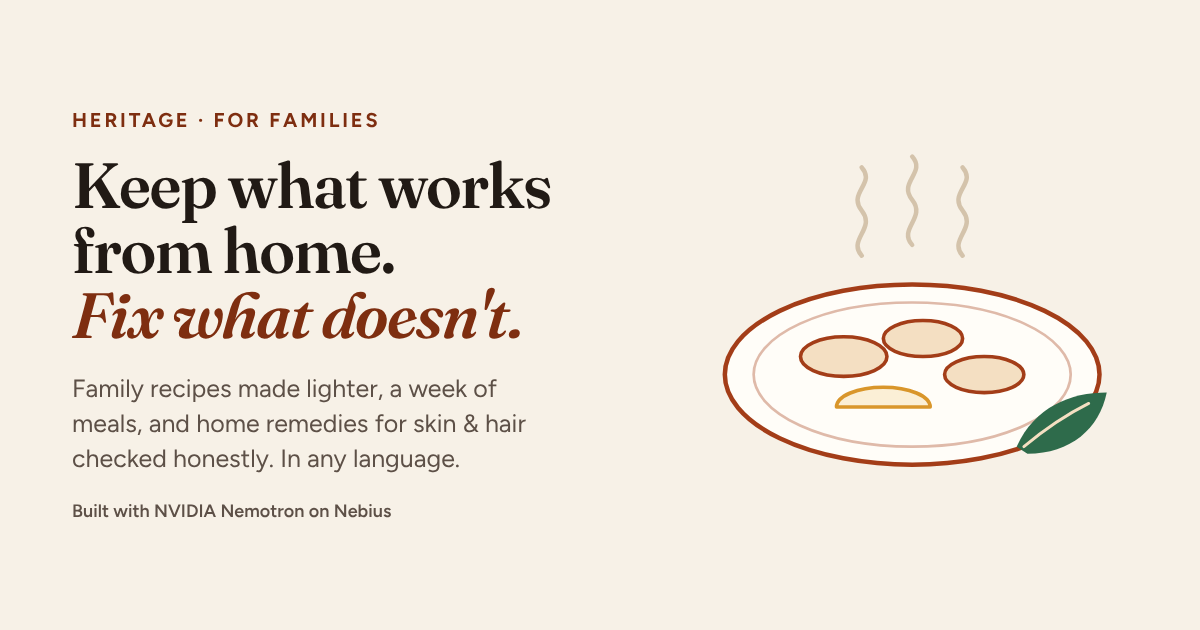
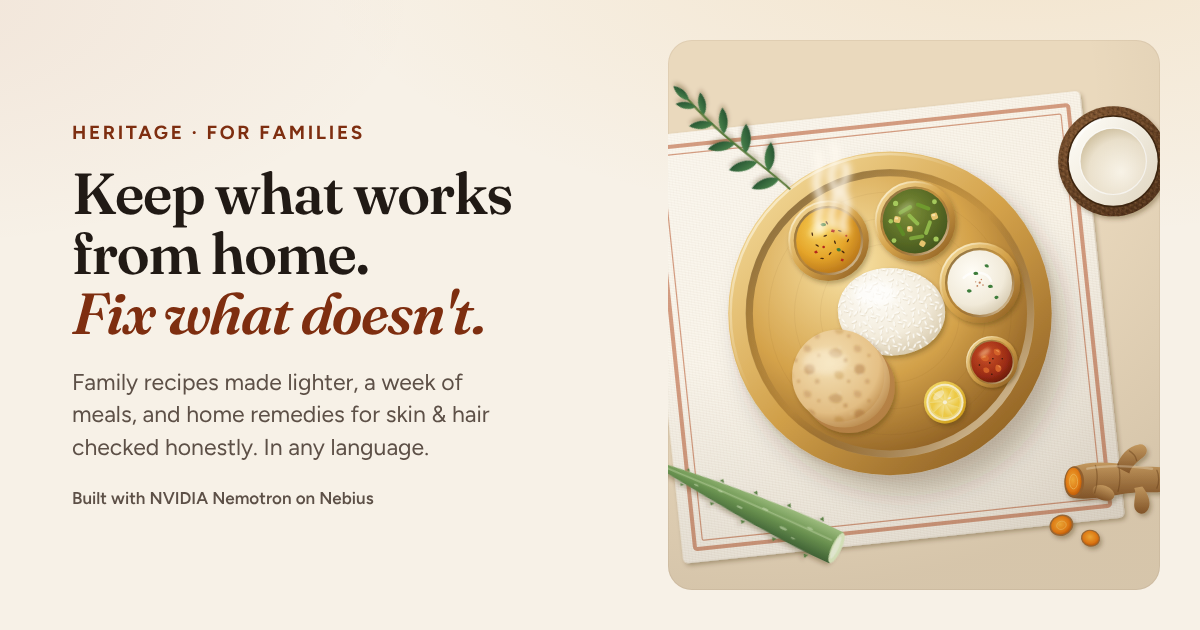
Always open on home; editorial family-table illustration
- Every visit starts on the home screen; #plate, #care, shortcuts and
  Back still go straight to their screen
- New flat-editorial illustration: brass thali with dal, sabzi, raita,
  pickle, rice, rotis, lemon and curry leaves, plus turmeric, coconut and
  aloe for home remedies; light and dark palettes, gentle steam
- Large on the right on desktop, banner on phones; crop reused in the
  empty family card; link-preview image re-rendered

Claude-Session: https://claude.ai/code/session_014jQBxq1ocyTSAuts19U2YA

diff --git a/static/index.html b/static/index.html
@@ -28,17 +28,11 @@
       var h = location.hash.replace(/^#/, ""), s = "home";
       if (h === "plate") s = "plate";
       else if (h === "care" || h === "care-plan" || h === "care-label") s = "care";
-      else if (h !== "home") {
-        try {
-          var f = JSON.parse(localStorage.getItem("hp-family-v2") || "null");
-          if (f && (f.mode === "plate" || f.mode === "care")) s = f.mode;
-          else if (!f && localStorage.getItem("hp-cookbook-v1")) s = "plate";
-        } catch (e) { /* storage blocked: home */ }
-      }
+      // Anything else (no link, an old or unknown link): every visit starts on home.
       document.documentElement.setAttribute("data-side", s);
     })();
   </script>
-  <link rel="stylesheet" href="/static/styles.css?v=20261029b">
+  <link rel="stylesheet" href="/static/styles.css?v=20261030">
 </head>
 <body>
   <a class="skip" href="#main">Skip to the app</a>
@@ -74,24 +68,10 @@
       <section class="hero home-hero" aria-labelledby="homeTitle">
         <div class="wrap">
           <div class="home-grid">
+            <!-- ht-art: the editorial hero, a family table from above (styles: "hero illustration" in styles.css) -->
+            <figure class="hero-art" aria-hidden="true"><svg class="ht-art" viewBox="0 0 720 680" preserveAspectRatio="xMidYMid slice" focusable="false"><defs><linearGradient id="ht-brass" x1="0" y1="0" x2="1" y2="1"><stop offset="0" class="ht-b1"/><stop offset=".5" class="ht-b2"/><stop offset="1" class="ht-b3"/></linearGradient><radialGradient id="ht-well" cx=".36" cy=".32" r=".78"><stop offset="0" class="ht-b1"/><stop offset=".55" class="ht-b2"/><stop offset="1" class="ht-b3"/></radialGradient><linearGradient id="ht-wall" x1=".15" y1=".15" x2=".85" y2=".85"><stop offset="0" stop-color="#3a220a" stop-opacity=".45"/><stop offset=".5" stop-color="#3a220a" stop-opacity="0"/><stop offset="1" stop-color="#fff6dc" stop-opacity=".55"/></linearGradient><linearGradient id="ht-hl" x1="0" y1="0" x2=".8" y2=".8"><stop offset="0" stop-color="#fffbea" stop-opacity=".9"/><stop offset=".5" stop-color="#fffbea" stop-opacity="0"/></linearGradient><radialGradient id="ht-dal" cx=".38" cy=".34" r=".7"><stop offset="0" stop-color="#f7d35c"/><stop offset=".6" stop-color="#e5a52a"/><stop offset="1" stop-color="#b9761a"/></radialGradient><radialGradient id="ht-sab" cx=".4" cy=".36" r=".7"><stop offset="0" stop-color="#7d8f37"/><stop offset="1" stop-color="#43551c"/></radialGradient><radialGradient id="ht-rai" cx=".38" cy=".34" r=".72"><stop offset="0" stop-color="#fffdf6"/><stop offset=".7" stop-color="#f1ead9"/><stop offset="1" stop-color="#d7cbb1"/></radialGradient><radialGradient id="ht-pic" cx=".38" cy=".34" r=".7"><stop offset="0" stop-color="#d0542a"/><stop offset=".7" stop-color="#9e2c14"/><stop offset="1" stop-color="#6e1c0c"/></radialGradient><radialGradient id="ht-rice" cx=".36" cy=".3" r=".8"><stop offset="0" stop-color="#fffefa"/><stop offset=".6" stop-color="#f3ecdc"/><stop offset="1" stop-color="#d4c5a6"/></radialGradient><radialGradient id="ht-roti" cx=".4" cy=".36" r=".68"><stop offset="0" stop-color="#f4e0b4"/><stop offset=".8" stop-color="#e6c186"/><stop offset="1" stop-color="#c99a5a"/></radialGradient><linearGradient id="ht-peel" x1="0" y1="0" x2="1" y2="1"><stop offset="0" stop-color="#fae36e"/><stop offset="1" stop-color="#d49d12"/></linearGradient><radialGradient id="ht-seg" cx="0" cy="0" r="1"><stop offset="0" stop-color="#fff3b8"/><stop offset="1" stop-color="#f3cf48"/></radialGradient><radialGradient id="ht-shell" cx=".4" cy=".36" r=".7"><stop offset="0" stop-color="#9a6a3e"/><stop offset="1" stop-color="#4f3019"/></radialGradient><linearGradient id="ht-flesh" x1="0" y1="0" x2="1" y2="1"><stop offset="0" stop-color="#fffefa"/><stop offset="1" stop-color="#e6dcc6"/></linearGradient><radialGradient id="ht-cav" cx=".62" cy=".66" r=".75"><stop offset="0" stop-color="#fbf6ea"/><stop offset=".65" stop-color="#ebe1cc"/><stop offset="1" stop-color="#c9b996"/></radialGradient><linearGradient id="ht-turm" x1="0" y1="0" x2="0" y2="1"><stop offset="0" stop-color="#d1a467"/><stop offset="1" stop-color="#8a5a2b"/></linearGradient><radialGradient id="ht-cut" cx=".45" cy=".42" r=".6"><stop offset="0" stop-color="#ffb43a"/><stop offset=".7" stop-color="#f08214"/><stop offset="1" stop-color="#c9600c"/></radialGradient><linearGradient id="ht-aloe" x1="0" y1="0" x2="0" y2="1"><stop offset="0" stop-color="#a6c987"/><stop offset=".5" stop-color="#6f9b55"/><stop offset="1" stop-color="#42693a"/></linearGradient><linearGradient id="ht-leaf" x1="0" y1="0" x2="1" y2="1"><stop offset="0" stop-color="#4f8a50"/><stop offset="1" stop-color="#1f4a2c"/></linearGradient><pattern id="ht-weave" width="4" height="4" patternUnits="userSpaceOnUse"><path class="ht-wv" d="M0 .5h4M0 2.5h4"/><path class="ht-wv" d="M1.5 0v4" opacity=".5"/></pattern><linearGradient id="ht-fold" x1="0" y1="0" x2="1" y2="1"><stop offset="0" stop-color="#fff" stop-opacity=".25"/><stop offset=".55" stop-color="#fff" stop-opacity="0"/><stop offset="1" stop-color="#5a3a14" stop-opacity=".08"/></linearGradient><pattern id="ht-grains" width="34" height="30" patternUnits="userSpaceOnUse" patternTransform="rotate(12)"><g fill="#c4b28c" opacity=".45"><ellipse cx="12.3" cy="6.6" rx="3.6" ry="1.35" transform="rotate(76 12.3 6.6)"/><ellipse cx="4.0" cy="24.1" rx="3.6" ry="1.35" transform="rotate(-66 4.0 24.1)"/><ellipse cx="17.8" cy="3.7" rx="3.6" ry="1.35" transform="rotate(21 17.8 3.7)"/><ellipse cx="19.6" cy="27.3" rx="3.6" ry="1.35" transform="rotate(71 19.6 27.3)"/><ellipse cx="19.9" cy="13.0" rx="3.6" ry="1.35" transform="rotate(-34 19.9 13.0)"/><ellipse cx="6.1" cy="10.7" rx="3.6" ry="1.35" transform="rotate(84 6.1 10.7)"/><ellipse cx="8.0" cy="17.8" rx="3.6" ry="1.35" transform="rotate(73 8.0 17.8)"/><ellipse cx="16.1" cy="18.5" rx="3.6" ry="1.35" transform="rotate(-72 16.1 18.5)"/><ellipse cx="25.3" cy="6.7" rx="3.6" ry="1.35" transform="rotate(35 25.3 6.7)"/><ellipse cx="26.3" cy="24.0" rx="3.6" ry="1.35" transform="rotate(-3 26.3 24.0)"/><ellipse cx="23.5" cy="18.2" rx="3.6" ry="1.35" transform="rotate(58 23.5 18.2)"/><ellipse cx="29.2" cy="11.7" rx="3.6" ry="1.35" transform="rotate(28 29.2 11.7)"/><ellipse cx="32.2" cy="20.5" rx="3.6" ry="1.35" transform="rotate(7 32.2 20.5)"/><ellipse cx="4.5" cy="4.5" rx="3.6" ry="1.35" transform="rotate(-37 4.5 4.5)"/><ellipse cx="12.9" cy="23.7" rx="3.6" ry="1.35" transform="rotate(-1 12.9 23.7)"/><ellipse cx="31.9" cy="27.0" rx="3.6" ry="1.35" transform="rotate(-86 31.9 27.0)"/></g><g fill="#fffefa"><ellipse cx="11.7" cy="5.9" rx="3.4" ry="1.15" transform="rotate(76 11.7 5.9)"/><ellipse cx="3.4" cy="23.4" rx="3.4" ry="1.15" transform="rotate(-66 3.4 23.4)"/><ellipse cx="17.2" cy="3.0" rx="3.4" ry="1.15" transform="rotate(21 17.2 3.0)"/><ellipse cx="19.0" cy="26.6" rx="3.4" ry="1.15" transform="rotate(71 19.0 26.6)"/><ellipse cx="19.3" cy="12.3" rx="3.4" ry="1.15" transform="rotate(-34 19.3 12.3)"/><ellipse cx="5.5" cy="10.0" rx="3.4" ry="1.15" transform="rotate(84 5.5 10.0)"/><ellipse cx="7.4" cy="17.1" rx="3.4" ry="1.15" transform="rotate(73 7.4 17.1)"/><ellipse cx="15.5" cy="17.8" rx="3.4" ry="1.15" transform="rotate(-72 15.5 17.8)"/><ellipse cx="24.7" cy="6.0" rx="3.4" ry="1.15" transform="rotate(35 24.7 6.0)"/><ellipse cx="25.7" cy="23.3" rx="3.4" ry="1.15" transform="rotate(-3 25.7 23.3)"/><ellipse cx="22.9" cy="17.5" rx="3.4" ry="1.15" transform="rotate(58 22.9 17.5)"/><ellipse cx="28.6" cy="11.0" rx="3.4" ry="1.15" transform="rotate(28 28.6 11.0)"/><ellipse cx="31.6" cy="19.8" rx="3.4" ry="1.15" transform="rotate(7 31.6 19.8)"/><ellipse cx="3.9" cy="3.8" rx="3.4" ry="1.15" transform="rotate(-37 3.9 3.8)"/><ellipse cx="12.3" cy="23.0" rx="3.4" ry="1.15" transform="rotate(-1 12.3 23.0)"/><ellipse cx="31.3" cy="26.3" rx="3.4" ry="1.15" transform="rotate(-86 31.3 26.3)"/></g></pattern><pattern id="ht-toast" width="62" height="56" patternUnits="userSpaceOnUse"><g fill="#94541a"><path d="M6 12c5-7 16-6 17 1s-15 9-17-1z" opacity=".28"/><path d="M38 4c5-2 11 2 8 7-4 3-11 0-8-7z" opacity=".22"/><path d="M40 28c8-4 15 4 9 10-6 5-15-2-9-10z" opacity=".32"/><path d="M14 36c6-3 13 2 10 8-5 4-13 0-10-8z" opacity=".2"/><circle cx="27" cy="22" r="2.4" opacity=".4"/><circle cx="54" cy="48" r="3" opacity=".25"/><circle cx="31" cy="48" r="1.6" opacity=".45"/><circle cx="56" cy="16" r="1.6" opacity=".4"/></g><g fill="#fff8e8" opacity=".5"><circle cx="20" cy="6" r=".9"/><circle cx="46" cy="40" r=".8"/><circle cx="12" cy="26" r=".7"/><circle cx="34" cy="32" r=".9"/></g></pattern><pattern id="ht-fiber" width="10" height="7" patternUnits="userSpaceOnUse"><path d="M1 2l5 1.5M5 5.5l4-.5" stroke="#2e1a0b" stroke-opacity=".35" stroke-width="1" stroke-linecap="round"/><path d="M2 5l3-.4M6 1.4l3 1" stroke="#c99b6a" stroke-opacity=".3" stroke-width=".8" stroke-linecap="round"/></pattern><filter id="ht-sh" x="-25%" y="-25%" width="160%" height="160%"><feGaussianBlur in="SourceAlpha" stdDeviation="3"/><feOffset dx="4" dy="5" result="a"/><feGaussianBlur in="SourceAlpha" stdDeviation="16"/><feOffset dx="16" dy="22" result="b"/><feMerge result="m"><feMergeNode in="b"/><feMergeNode in="a"/></feMerge><feFlood class="ht-fl"/><feComposite in2="m" operator="in"/><feMerge><feMergeNode/><feMergeNode in="SourceGraphic"/></feMerge></filter><filter id="ht-ds" x="-30%" y="-30%" width="170%" height="170%"><feDropShadow dx="2.5" dy="3.5" stdDeviation="2.5" class="ht-ds"/></filter><filter id="ht-soft"><feGaussianBlur stdDeviation="1.4"/></filter><filter id="ht-mist" x="-80%" y="-30%" width="260%" height="160%"><feGaussianBlur stdDeviation="4.5"/></filter><filter id="ht-blur" x="-50%" y="-20%" width="200%" height="140%"><feGaussianBlur stdDeviation="3"/></filter><path id="ht-cu" d="M-2.4 0a2.4 .9 0 1 0 4.8 0a2.4 .9 0 1 0-4.8 0z"/><path id="ht-bean" d="M-7-2.4h14a2.4 2.4 0 0 1 0 4.8h-14a2.4 2.4 0 0 1 0-4.8z"/><path id="ht-cl" d="M0 0C8-8 24-9 36-1 26 7 10 8 0 0z"/><path id="ht-sg" d="M3-1 17.6-5.6A18.4 18.4 0 0 1 17.6 5.6L3 1z"/><g id="ht-kat"><circle r="50" fill="url(#ht-brass)"/><circle r="48.6" fill="none" stroke="url(#ht-hl)" stroke-width="2.2"/><circle r="43" fill="url(#ht-well)"/><circle r="43" fill="url(#ht-wall)"/></g></defs><g transform="translate(0 38)"><g class="ht-cloth" transform="rotate(-6 320 320)"><rect x="46" y="52" width="548" height="530" rx="6" class="ht-cl" filter="url(#ht-ds)"/><rect x="46" y="52" width="548" height="530" rx="6" fill="url(#ht-weave)"/><rect x="46" y="52" width="548" height="530" rx="6" fill="url(#ht-fold)"/><rect x="62" y="68" width="516" height="498" rx="3" class="ht-st" stroke-width="5"/><rect x="72" y="78" width="496" height="478" rx="2" class="ht-st" stroke-width="1.5"/></g><g id="ht-thali" filter="url(#ht-sh)"><circle cx="330" cy="300" r="200" fill="url(#ht-brass)"/><circle cx="330" cy="300" r="197" fill="none" stroke="url(#ht-hl)" stroke-width="3"/><circle cx="330" cy="300" r="178" fill="url(#ht-well)"/><g fill="none" stroke="#5a3a12" stroke-opacity=".07"><circle cx="330" cy="300" r="150"/><circle cx="330" cy="300" r="118"/><circle cx="330" cy="300" r="86"/><circle cx="330" cy="300" r="40"/></g><circle cx="330" cy="300" r="174" fill="none" stroke="url(#ht-wall)" stroke-width="9"/><g filter="url(#ht-ds)"><path d="M266 302c-4-34 30-60 66-58 40 2 70 28 66 60-4 32-38 50-70 48-36-2-58-20-62-50z" fill="url(#ht-rice)"/><path d="M266 302c-4-34 30-60 66-58 40 2 70 28 66 60-4 32-38 50-70 48-36-2-58-20-62-50z" fill="url(#ht-grains)" opacity=".9"/><ellipse cx="312" cy="276" rx="26" ry="14" fill="#fff" opacity=".55" filter="url(#ht-blur)"/></g><g filter="url(#ht-ds)"><circle cx="279" cy="391" r="57" fill="#b98447"/><circle cx="273" cy="384" r="57" fill="url(#ht-roti)"/><circle cx="273" cy="384" r="57" fill="#7a4313" opacity=".12"/><circle cx="266" cy="377" r="57" fill="url(#ht-roti)"/><circle cx="266" cy="377" r="57" fill="url(#ht-toast)" filter="url(#ht-soft)"/><ellipse cx="250" cy="360" rx="28" ry="16" fill="#fff8e6" opacity=".35" filter="url(#ht-blur)"/></g><g transform="translate(398 410)" filter="url(#ht-ds)"><circle r="26" fill="url(#ht-peel)"/><circle r="23" fill="#fbf1cc"/><circle r="20.5" fill="#f5dd78"/><g fill="url(#ht-seg)"><use href="#ht-sg"/><use href="#ht-sg" transform="rotate(40)"/><use href="#ht-sg" transform="rotate(80)"/><use href="#ht-sg" transform="rotate(120)"/><use href="#ht-sg" transform="rotate(160)"/><use href="#ht-sg" transform="rotate(200)"/><use href="#ht-sg" transform="rotate(240)"/><use href="#ht-sg" transform="rotate(280)"/><use href="#ht-sg" transform="rotate(320)"/></g><circle r="2.6" fill="#fdf6da"/><ellipse cx="7" cy="-3" rx="2.2" ry="1.2" fill="#f7efcf" transform="rotate(-20)"/><ellipse cx="-8" cy="-9" rx="8" ry="4" fill="#fff" opacity=".45" transform="rotate(-40 -8 -9)"/></g><g transform="translate(254 210)" filter="url(#ht-ds)"><use href="#ht-kat"/><circle r="40" fill="url(#ht-dal)"/><ellipse cx="-12" cy="-14" rx="14" ry="6" fill="#fff6d0" opacity=".5" transform="rotate(-35 -12 -14)" filter="url(#ht-blur)"/><g fill="#4a2a10"><use href="#ht-cu" transform="translate(-14 6) rotate(30)"/><use href="#ht-cu" transform="translate(-4 -6) rotate(-20)"/><use href="#ht-cu" transform="translate(8 2) rotate(70)"/><use href="#ht-cu" transform="translate(14 -12) rotate(10)"/><use href="#ht-cu" transform="translate(2 16) rotate(-50)"/><use href="#ht-cu" transform="translate(-20 -8) rotate(80)"/><use href="#ht-cu" transform="translate(18 14) rotate(40)"/><use href="#ht-cu" transform="translate(-8 22) rotate(5)"/><use href="#ht-cu" transform="translate(24 0) rotate(-60)"/><use href="#ht-cu" transform="translate(-2 -22) rotate(55)"/></g><g fill="#b3261a"><path d="M4-14l4 1-1 3-4-1z"/><path d="M-18 14l3-2 2 3-3 1z"/><path d="M16 22l3 1-1 3-3-1z"/><circle cx="-6" cy="8" r="1.6"/><circle cx="22" cy="-6" r="1.3"/></g><g fill="#3f7a35"><path d="M-10-20c3-3 7-2 7 1-3 2-5 2-7-1z"/><path d="M10 10c3-2 6 0 5 3-3 1-5 0-5-3z"/></g></g><g transform="translate(361 186)" filter="url(#ht-ds)"><use href="#ht-kat"/><circle r="40" fill="url(#ht-sab)"/><use href="#ht-bean" fill="#86ad3e" transform="translate(-12 -14) rotate(-30)"/><use href="#ht-bean" fill="#6f9a2e" transform="translate(10 -18) rotate(20)"/><use href="#ht-bean" fill="#8fb648" transform="translate(16 8) rotate(-70)"/><use href="#ht-bean" fill="#5f8a28" transform="translate(-18 10) rotate(60)"/><use href="#ht-bean" fill="#7ea53a" transform="translate(2 20) rotate(-10)"/><use href="#ht-bean" fill="#94bb4e" transform="translate(-2 -2) rotate(45)"/><g fill="#e6c46e"><rect x="-26" y="-6" width="8" height="8" rx="2" transform="rotate(12 -22 -2)"/><rect x="20" y="-10" width="8" height="8" rx="2" transform="rotate(-20 24 -6)"/><rect x="-10" y="6" width="7" height="7" rx="2"/><rect x="6" y="24" width="7" height="7" rx="2" transform="rotate(30 9 27)"/></g><g fill="#fff4cc" opacity=".6"><rect x="-25" y="-5" width="4" height="3" rx="1"/><rect x="21" y="-9" width="4" height="3" rx="1"/><rect x="-9" y="7" width="3" height="3" rx="1"/></g><g fill="#a5c95c"><circle cx="-24" cy="-22" r="3.2"/><circle cx="24" cy="-24" r="3"/><circle cx="26" cy="22" r="3.2"/><circle cx="-26" cy="24" r="3"/><circle cx="-30" cy="0" r="2.8"/></g><ellipse cx="-12" cy="-16" rx="12" ry="5" fill="#fff" opacity=".22" transform="rotate(-35 -12 -16)" filter="url(#ht-blur)"/></g><g transform="translate(441 262)" filter="url(#ht-ds)"><use href="#ht-kat"/><circle r="40" fill="url(#ht-rai)"/><path d="M-20-6c10-10 30-8 34 4" fill="none" stroke="#fff" stroke-width="3" stroke-linecap="round" opacity=".7"/><g fill="#3e7d3a"><path d="M-8-12c3-3 7-1 6 2-3 1-5 1-6-2z"/><path d="M10 4c3-3 7-1 6 2-3 1-5 1-6-2z"/><path d="M-16 10c2-3 6-2 6 1-2 2-5 2-6-1z"/><path d="M6-22c3-2 6 0 5 3-3 1-5 0-5-3z"/><path d="M18 18c2-3 6-2 5 1-2 2-4 2-5-1z"/></g><g fill="#a8501e" opacity=".7"><circle cx="0" cy="0" r="1.4"/><circle cx="4" cy="3" r="1"/><circle cx="-3" cy="4" r="1.1"/><circle cx="2" cy="-4" r=".9"/><circle cx="-5" cy="-1" r=".8"/></g></g><g transform="translate(456 360) scale(.64)" filter="url(#ht-ds)"><use href="#ht-kat"/><circle r="40" fill="url(#ht-pic)"/><g fill="#d8642b"><path d="M-22-8c4-8 14-8 16 0s-12 10-16 0z"/><path d="M4-24c8-4 16 2 12 10-6 4-14 0-12-10z"/><path d="M8 6c8-2 14 6 8 12-6 4-12-2-8-12z"/><path d="M-16 12c6-4 14 2 10 8-6 4-12 0-10-8z"/></g><g fill="#f6a35a" opacity=".7"><path d="M-19-8c2-4 7-4 8-1"/><path d="M7-22c4-2 8 0 7 4"/><path d="M11 7c4-1 7 2 5 5"/></g><g fill="#2a1408"><circle cx="-4" cy="2" r="1.6"/><circle cx="2" cy="-6" r="1.5"/><circle cx="20" cy="-6" r="1.4"/><circle cx="-24" cy="6" r="1.6"/><circle cx="0" cy="24" r="1.5"/></g><ellipse cx="-14" cy="-18" rx="12" ry="5" fill="#ffd6a0" opacity=".5" transform="rotate(-35 -14 -18)" filter="url(#ht-blur)"/></g></g><g class="ht-steam" fill="none" stroke-linecap="round" filter="url(#ht-mist)"><path class="ht-s1" d="M244 196c-10-16 8-28-2-46s8-30-2-48"/><path class="ht-s2" d="M260 192c-10-16 10-30 0-50s10-30 0-50"/><path class="ht-s3" d="M274 198c-8-14 8-26 0-42s8-26 0-40"/></g><g transform="translate(206 146) rotate(-140)" filter="url(#ht-ds)"><path d="M0 0C40 2 100-6 168 4" fill="none" stroke="#5b7a3a" stroke-width="2.6" stroke-linecap="round"/><g fill="url(#ht-leaf)"><use href="#ht-cl" transform="translate(18 1) rotate(-58)"/><use href="#ht-cl" transform="translate(34 0) rotate(56)"/><use href="#ht-cl" transform="translate(52 -1) rotate(-54)"/><use href="#ht-cl" transform="translate(70 -1) rotate(52)"/><use href="#ht-cl" transform="translate(88 -1) rotate(-50) scale(.94)"/><use href="#ht-cl" transform="translate(106 0) rotate(48) scale(.9)"/><use href="#ht-cl" transform="translate(124 1) rotate(-44) scale(.84)"/><use href="#ht-cl" transform="translate(140 2) rotate(42) scale(.78)"/><use href="#ht-cl" transform="translate(154 3) rotate(-30) scale(.7)"/><use href="#ht-cl" transform="translate(166 4) rotate(4) scale(.72)"/></g></g><g transform="translate(606 112)" filter="url(#ht-ds)"><circle r="68" fill="url(#ht-shell)"/><circle r="68" fill="url(#ht-fiber)"/><circle r="68" fill="url(#ht-fiber)" transform="rotate(60)"/><circle r="57" fill="#3e2511"/><circle r="55" fill="url(#ht-flesh)"/><circle r="41" fill="url(#ht-cav)"/><circle r="41" fill="none" stroke="#fff" stroke-opacity=".7" stroke-width="1.5"/><path d="M-48-18a52 52 0 0 1 32-34" fill="none" stroke="#fff" stroke-width="3" stroke-linecap="round" opacity=".55"/></g><g filter="url(#ht-ds)" transform="translate(-6 22)"><g fill="url(#ht-turm)"><path d="M562 468c20-8 48-6 70-2 18 3 34 0 52 4 12 3 16 18 6 24-16 8-36 4-56 6-22 2-50 10-72 6-14-3-14-34 0-38z"/><path d="M616 468c4-14 14-26 28-28 10-1 13 10 5 16-8 6-15 12-17 20z"/><path d="M648 492c8 10 12 22 6 30-6 8-17 2-16-8 0-8 3-14 0-20z"/><ellipse cx="600" cy="500" rx="14" ry="9" transform="rotate(20 600 500)"/><ellipse cx="682" cy="478" rx="10" ry="13"/></g><path d="M590 466c3 8 3 24-1 34M618 464c3 9 3 24 0 34M666 472c3 6 3 16 0 22M632 448c5 3 8 7 9 12" fill="none" stroke="#6b4018" stroke-opacity=".45" stroke-width="1.6" stroke-linecap="round"/><path d="M580 470c20-4 50-4 80 0" fill="none" stroke="#fff3da" stroke-opacity=".35" stroke-width="3" stroke-linecap="round"/><ellipse cx="564" cy="486" rx="12" ry="19" fill="#9a6631"/><ellipse cx="563" cy="486" rx="10" ry="17" fill="url(#ht-cut)"/><ellipse cx="563" cy="486" rx="5" ry="9" fill="none" stroke="#ffcf6e" stroke-opacity=".6" stroke-width="1.2"/><g transform="translate(548 540) rotate(-20)"><ellipse rx="15" ry="13" fill="#a4703a"/><ellipse rx="13" ry="11.2" fill="url(#ht-cut)"/><ellipse rx="6" ry="5" fill="none" stroke="#ffcf6e" stroke-opacity=".6" stroke-width="1"/></g><g transform="translate(584 556) rotate(15)"><ellipse rx="12" ry="10.5" fill="#a4703a"/><ellipse rx="10.4" ry="9" fill="url(#ht-cut)"/></g></g><g transform="translate(264 590) rotate(205) scale(1 -1)" filter="url(#ht-ds)"><path d="M0-21C70-22 170-14 270 0 170 12 70 22 0 21z" fill="url(#ht-aloe)"/><path d="M28-23l3-5 3 4.6M72-21l3-5 3 4.4M116-18l3-4.6 3 4M160-14l3-4 3 3.4M204-8.6l3-3.6 2 3M28 23l3 5 3-4.6M72 21l3 5 3-4.4M116 18l3 4.6 3-4M160 14l3 4 3-3.4M204 8.6l3 3.6 2-3" fill="#5c8746"/><path d="M10-6C80-6 170-4 250 0" fill="none" stroke="#c9e2ad" stroke-opacity=".5" stroke-width="2" stroke-linecap="round"/><g fill="#d9ecc2" opacity=".55"><ellipse cx="40" cy="-8" rx="4" ry="1.4"/><ellipse cx="70" cy="6" rx="5" ry="1.6"/><ellipse cx="100" cy="-6" rx="4" ry="1.3"/><ellipse cx="130" cy="5" rx="4" ry="1.3"/><ellipse cx="160" cy="-3" rx="3.4" ry="1.1"/><ellipse cx="54" cy="12" rx="3" ry="1"/><ellipse cx="190" cy="3" rx="3" ry="1"/></g><ellipse rx="6" ry="20" fill="#e1f0c6"/><ellipse cx="1" rx="3.2" ry="15" fill="#f4fae6" opacity=".8"/></g></g></svg></figure>
+            <!-- /ht-art -->
             <div class="home-copy">
-              <figure class="hero-art" aria-hidden="true">
-                <svg class="thali-art" viewBox="0 0 240 190" focusable="false">
-                  <g class="ta-steam">
-                    <path class="ta-s1" d="M92 62c-8-9 8-15 0-25s8-15 0-24"/>
-                    <path class="ta-s2" d="M120 56c-8-9 8-15 0-25s8-15 0-24"/>
-                    <path class="ta-s3" d="M148 62c-8-9 8-15 0-25s8-15 0-24"/>
-                  </g>
-                  <ellipse class="ta-plate" cx="120" cy="128" rx="104" ry="50"/>
-                  <ellipse class="ta-rim" cx="120" cy="128" rx="88" ry="40"/>
-                  <ellipse class="ta-bowl" cx="82" cy="118" rx="24" ry="11"/>
-                  <ellipse class="ta-bowl" cx="126" cy="108" rx="22" ry="10"/>
-                  <ellipse class="ta-bowl" cx="160" cy="128" rx="22" ry="10"/>
-                  <path class="ta-roti" d="M78 146a26 11 0 0 1 52 0Z"/>
-                  <path class="ta-leaf" d="M178 168c10-22 30-30 50-30-4 20-20 34-44 34"/>
-                  <path class="ta-vein" d="M182 168c12-10 24-18 36-24"/>
-                </svg>
-              </figure>
               <p class="eyebrow">Your family's health helper</p>
               <h1 id="homeTitle" tabindex="-1">Keep what works from home.<br><span class="accent">Fix what doesn't.</span></h1>
               <p class="lede home-lede">Your family's recipes made lighter, a week of meals for diabetes, blood pressure or cholesterol, and home remedies for skin and hair checked honestly. Just say it, in any language.</p>
@@ -121,7 +101,7 @@
                 <p class="fam-sub">Who Plate and Care are for. Saved on this device only.</p>
               </div>
               <div id="famBody" class="fam-body">
-                <p class="fam-empty"><svg class="spot-art" viewBox="0 0 64 48" aria-hidden="true" focusable="false"><ellipse class="ta-plate" cx="30" cy="30" rx="26" ry="13"/><ellipse class="ta-bowl" cx="24" cy="28" rx="8" ry="4"/><ellipse class="ta-bowl" cx="38" cy="30" rx="7" ry="3.5"/><path class="ta-leaf" d="M44 42c3-7 9-10 16-10-1 7-6 11-14 11"/><g class="ta-steam"><path d="M26 18c-3-3 3-5 0-8s3-5 0-8"/><path d="M35 18c-3-3 3-5 0-8s3-5 0-8"/></g></svg><span><b>Start with one person:</b> Mum, Dad or you.</span></p>
+                <p class="fam-empty"><svg class="spot-art" viewBox="196 180 148 111" aria-hidden="true" focusable="false"><use href="#ht-thali"/></svg><span><b>Start with one person:</b> Mum, Dad or you.</span></p>
               </div>
             </section>
             <ol class="steps3" aria-label="How it works, in 3 steps">
@@ -633,8 +613,8 @@
 
   <div id="announce" class="sr-only" aria-live="polite"></div>
   <div id="toast" class="toast" role="status" aria-live="polite" hidden></div>
-  <script src="/static/family.js?v=20261029b"></script>
-  <script src="/static/app.js?v=20261029b"></script>
-  <script src="/static/care.js?v=20261029b"></script>
+  <script src="/static/family.js?v=20261030"></script>
+  <script src="/static/app.js?v=20261030"></script>
+  <script src="/static/care.js?v=20261030"></script>
 </body>
 </html>

diff --git a/static/styles.css b/static/styles.css
@@ -1536,17 +1536,25 @@ html[data-side="care"] .side-switch a[data-side-link="care"] { color: var(--gree
 .home-hero { padding-top: var(--s5); }
 .home-hero h1 { font-size: clamp(2.125rem, 8.6vw, 3.5rem); max-width: 16ch; }
 .home-lede { margin-top: var(--s3); max-width: 50ch; color: var(--muted); }
-.home-grid { grid-template-columns: minmax(0, 1fr); grid-template-areas: "copy" "fam" "steps" "ex"; gap: var(--s5); align-items: start; }
+/* phones: a short cropped banner of the art above the headline, then pitch, family, steps, example.
+   tablets: a taller banner, family and example side by side.
+   desktop: the art large on the right of the pitch; family and example below the shortcuts. */
+.home-grid { grid-template-columns: minmax(0, 1fr); grid-template-areas: "art" "copy" "fam" "steps" "ex"; gap: var(--s5); align-items: start; }
 .home-copy { grid-area: copy; min-width: 0; }
 #homeFamily { grid-area: fam; }
 .home-grid > .steps3 { grid-area: steps; }
 .home-grid > .home-ex { grid-area: ex; display: block; max-width: 460px; min-width: 0; }
-@media (min-width: 960px) {
+@media (min-width: 760px) and (max-width: 999px) {
+  .home-grid { grid-template-columns: minmax(0, 1fr) minmax(0, 1fr); grid-template-areas: "art art" "copy copy" "fam ex" "steps steps"; }
+  .home-grid > .home-ex { max-width: none; }
+}
+@media (min-width: 1000px) {
   .home-hero { padding-top: var(--s7); }
   .home-grid {
-    grid-template-columns: minmax(0, 1.4fr) minmax(0, 1fr); grid-template-areas: "copy fam" "copy ex" "steps ex";
-    grid-template-rows: auto 1fr auto; column-gap: var(--s7); row-gap: var(--s5);
+    grid-template-columns: minmax(0, 1fr) minmax(0, 1fr); grid-template-areas: "copy art" "fam ex" "steps steps";
+    column-gap: var(--s7); row-gap: var(--s6); align-items: start;
   }
+  .home-grid > .hero-art { align-self: center; }
   .home-grid > .home-ex { max-width: none; }
 }
 
@@ -1723,26 +1731,57 @@ button.text-link { background: none; border: 0; padding: 0; font: inherit; font-
 }
 body { background-image: var(--grain), var(--paper-tex); background-repeat: no-repeat, no-repeat, repeat; }
 
-/* ---------- the visual signature: a thali, leaf and gentle steam in the brand mark's lines ---------- */
-.ta-plate { fill: var(--brand-plate); stroke: var(--brand-rim); stroke-width: 2.5; }
-.ta-rim { fill: none; stroke: var(--brand-rim); stroke-width: 1.5; opacity: .35; }
-.ta-bowl { fill: var(--brand-dish); stroke: var(--brand-rim); stroke-width: 2; }
-.ta-roti { fill: var(--saffron-soft); stroke: var(--saffron); stroke-width: 2; stroke-linejoin: round; }
-.ta-leaf { fill: var(--brand-leaf); }
-.ta-vein { fill: none; stroke: var(--brand-dish); stroke-width: 1.6; stroke-linecap: round; }
-.ta-steam path { fill: none; stroke: var(--line-strong); stroke-width: 2.5; stroke-linecap: round; }
-.hero-art { margin: 0 0 var(--s3); }
-.thali-art { display: block; width: auto; height: 104px; overflow: visible; }
-@media (min-width: 960px) { .thali-art { height: 116px; } }
-.thali-art .ta-steam path { animation: steam 3.6s ease-in-out infinite; }
-.thali-art .ta-s2 { animation-delay: -1.2s; }
-.thali-art .ta-s3 { animation-delay: -2.4s; }
-@keyframes steam { 0%, 100% { opacity: .35; transform: translateY(4px); } 50% { opacity: 1; transform: translateY(-4px); } }
+/* ---------- hero illustration: a family table from above (inline SVG #ht-*, index.html) ----------
+   Realistic-flat, one light from the top left. Brass, cloth and shadow are tokens so dark mode
+   gets a warmer brass on a deeper table; food colours stay true. */
+:root {
+  --ht-b1: #f9e4a8; --ht-b2: #d4a24a; --ht-b3: #87571d;
+  --ht-table: #ead9bd; --ht-cloth: #faf5ea; --ht-weave: rgba(120, 88, 48, .055); --ht-stripe: #b4532a;
+  --ht-shadow: #3d2610; --ht-sh-o: .26; --ht-ds-o: .32; --ht-steam: #fffaf0; --ht-steam-o: .9;
+}
+@media (prefers-color-scheme: dark) {
+  :root:not([data-theme="light"]) {
+    --ht-b1: #f2c776; --ht-b2: #b67a2a; --ht-b3: #57340f;
+    --ht-table: #1f1712; --ht-cloth: #2e241c; --ht-weave: rgba(255, 232, 196, .05); --ht-stripe: #c4673c;
+    --ht-shadow: #000; --ht-sh-o: .55; --ht-ds-o: .5; --ht-steam: #fff1dc; --ht-steam-o: .4;
+  }
+}
+:root[data-theme="dark"] {
+  --ht-b1: #f2c776; --ht-b2: #b67a2a; --ht-b3: #57340f;
+  --ht-table: #1f1712; --ht-cloth: #2e241c; --ht-weave: rgba(255, 232, 196, .05); --ht-stripe: #c4673c;
+  --ht-shadow: #000; --ht-sh-o: .55; --ht-ds-o: .5; --ht-steam: #fff1dc; --ht-steam-o: .4;
+}
+.ht-b1 { stop-color: var(--ht-b1); }
+.ht-b2 { stop-color: var(--ht-b2); }
+.ht-b3 { stop-color: var(--ht-b3); }
+.ht-fl { flood-color: var(--ht-shadow); flood-opacity: var(--ht-sh-o); }
+.ht-ds { flood-color: var(--ht-shadow); flood-opacity: var(--ht-ds-o); }
+.ht-cl { fill: var(--ht-cloth); }
+.ht-wv { fill: none; stroke: var(--ht-weave); stroke-width: 1; }
+.ht-st { fill: none; stroke: var(--ht-stripe); opacity: .55; }
+.ht-steam path { stroke: var(--ht-steam); stroke-width: 9; opacity: 0; animation: ht-steam 5.4s ease-in-out infinite; }
+.ht-steam .ht-s2 { animation-delay: -1.8s; }
+.ht-steam .ht-s3 { animation-delay: -3.6s; }
+@keyframes ht-steam {
+  0% { opacity: 0; transform: translate(0, 10px); }
+  35% { opacity: var(--ht-steam-o); }
+  100% { opacity: 0; transform: translate(-6px, -26px); }
+}
+.hero-art {
+  grid-area: art; margin: 0; position: relative; overflow: hidden; min-width: 0;
+  border-radius: var(--radius); background: var(--ht-table);
+  box-shadow: inset 0 0 0 1px rgba(60, 40, 20, .06);
+}
+.hero-art::after { /* a soft vignette, light from the top left */
+  content: ""; position: absolute; inset: 0; pointer-events: none;
+  background: radial-gradient(120% 90% at 20% 10%, transparent 55%, rgba(40, 24, 8, .10));
+}
+.ht-art { display: block; width: 100%; height: 200px; }
+@media (min-width: 520px) { .ht-art { height: 240px; } }
+@media (min-width: 760px) { .ht-art { height: 300px; } }
+@media (min-width: 1000px) { .ht-art { height: auto; aspect-ratio: 720 / 680; } }
 .fam-empty { display: flex; align-items: center; gap: var(--s3); }
-.spot-art { flex: none; width: 64px; height: 48px; }
-.spot-art .ta-plate { stroke-width: 1.8; }
-.spot-art .ta-bowl { stroke-width: 1.4; }
-.spot-art .ta-steam path { stroke-width: 1.8; }
+.spot-art { flex: none; width: 72px; height: 54px; border-radius: 12px; background: var(--ht-table); }
 
 /* ---------- one chip system for every choice and quick action ---------- */
 .pick-opt span, .chip, .chip-btn, .chip-add, .ask-pill {
@@ -1902,12 +1941,12 @@ details[open] > summary .chev { transform: rotate(-135deg) translate(-2px, -2px)
 .how-details-body { display: grid; gap: var(--s4); padding-bottom: var(--s2); }
 
 @media (prefers-reduced-motion: reduce) {
-  .thali-art .ta-steam path { animation: none; opacity: .8; transform: none; }
+  .ht-steam path { animation: none; opacity: var(--ht-steam-o); transform: none; }
 }
 @media (forced-colors: active) {
   .hf-node, .ai-wait, .mic-inline { border: 1px solid CanvasText; }
 }
-@media print { .hero-art { display: none; } }
+@media print { .hero-art { break-inside: avoid; } }
 @media (max-width: 359px) {
   .ta-wrap { grid-template-columns: minmax(0, 1fr); }
   .mic.mic-inline { grid-column: 1; grid-row: 2; justify-self: start; }

diff --git a/static/care.js b/static/care.js
@@ -330,8 +330,7 @@ function route(initial = false) {
   if (h === "home") side = "home";
   else if (h === "plate") side = "plate";
   else if (CARE_SCREENS[h]) side = "care";
-  else if (h === "") side = careFamily().mode || "home";
-  else if (initial) side = careFamily().mode || "home"; // e.g. #samples on first load
+  else if (h === "" || initial) side = "home"; // every visit starts on home, whatever was used last
   else return; // in-page anchors (e.g. #samples) leave the side alone
   const changed = setSide(side);
   if (side === "care") {
@@ -1015,8 +1014,8 @@ function famAddFormHTML() {
     </form>`;
 }
 
-// Small spot art for empty states: the hero's thali, in the brand mark's colours.
-const SPOT_ART = `<svg class="spot-art" viewBox="0 0 64 48" aria-hidden="true" focusable="false"><ellipse class="ta-plate" cx="30" cy="30" rx="26" ry="13"/><ellipse class="ta-bowl" cx="24" cy="28" rx="8" ry="4"/><ellipse class="ta-bowl" cx="38" cy="30" rx="7" ry="3.5"/><path class="ta-leaf" d="M44 42c3-7 9-10 16-10-1 7-6 11-14 11"/><g class="ta-steam"><path d="M26 18c-3-3 3-5 0-8s3-5 0-8"/><path d="M35 18c-3-3 3-5 0-8s3-5 0-8"/></g></svg>`;
+// Small spot art for empty states: a crop of the home hero's thali (reuses #ht-thali, which is on the same screen).
+const SPOT_ART = `<svg class="spot-art" viewBox="196 180 148 111" aria-hidden="true" focusable="false"><use href="#ht-thali"/></svg>`;
 
 function renderHomeFamily() {
   const box = $("famBody");
